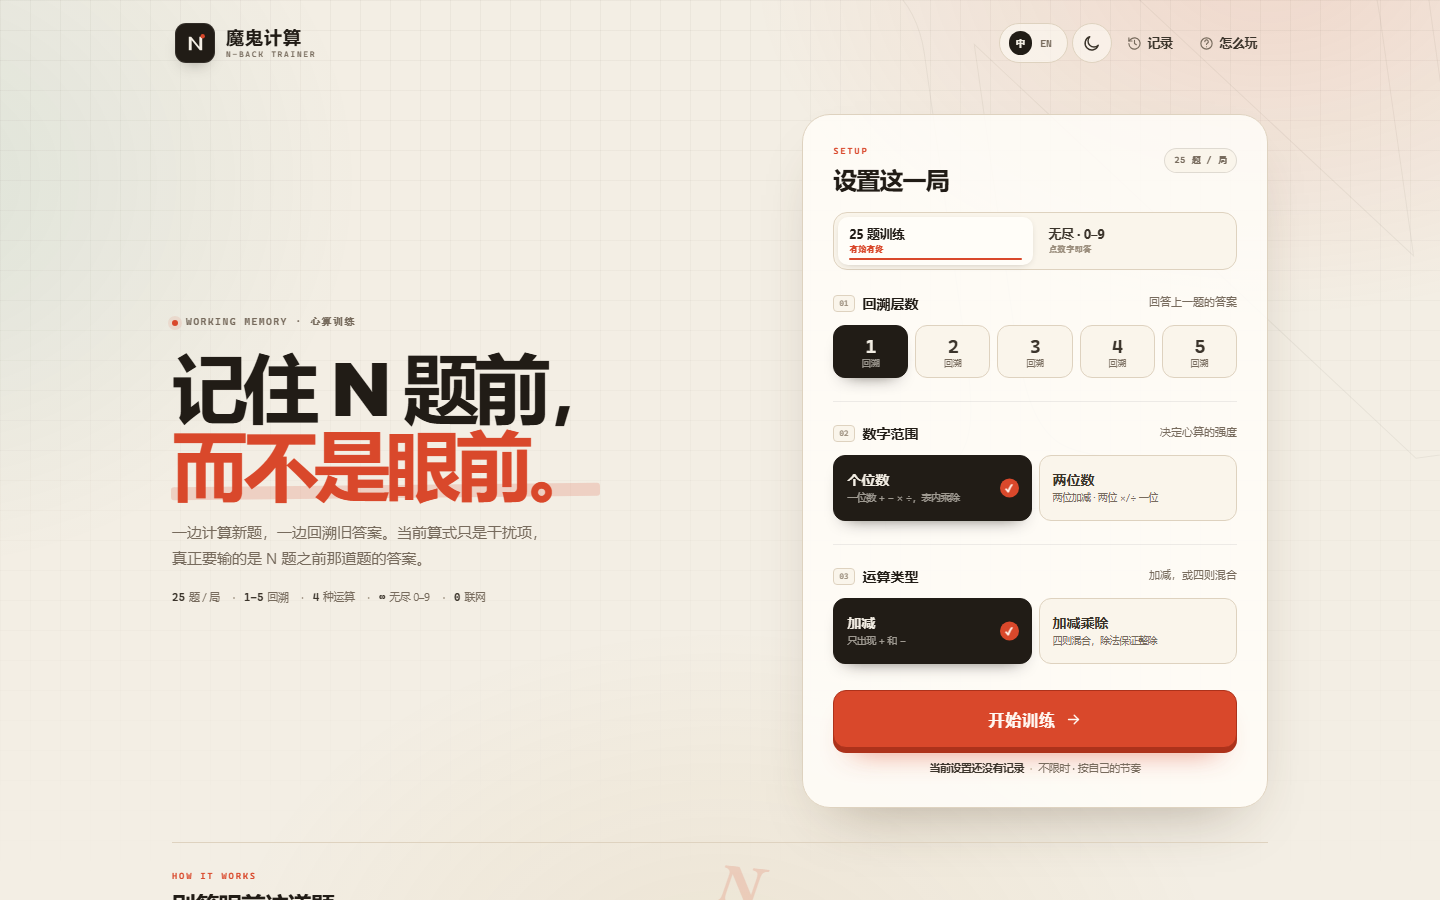
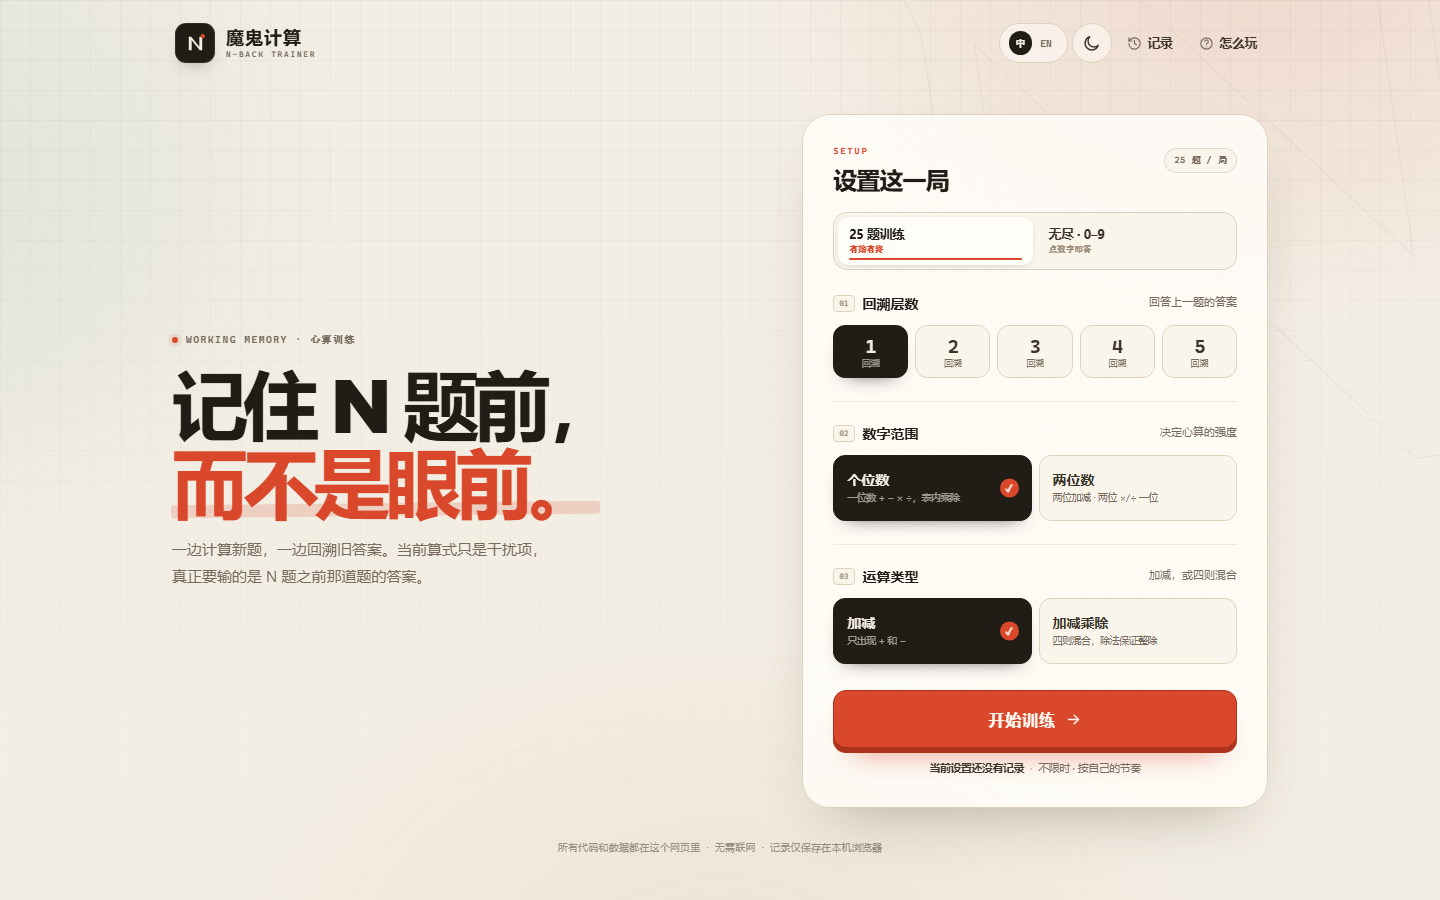
Remove hero tags and how-it-works section
Keep the hero, setup panel, help dialog, and footer; remove the crossed-out tag row and the entire guide block. Refresh home previews and drop obsolete guide images.

diff --git a/魔鬼计算.html b/魔鬼计算.html
@@ -4037,13 +4037,6 @@ html[data-theme] .guide-panel .example {
           <p class="eyebrow"><span class="eyebrow-dot"></span><span data-i18n="hero_eyebrow">WORKING MEMORY · 心算训练</span></p>
           <h1 id="home-title" data-i18n-html="hero_title_html">记住 N 题前，<br><em>而不是眼前。</em></h1>
           <p class="lede" data-i18n-html="hero_lede_html">一边计算新题，一边回溯旧答案。当前算式只是干扰项，<br class="desktop-break">真正要输的是 N 题之前那道题的答案。</p>
-          <div class="hero-tags">
-            <span data-i18n-html="tag_round_html"><b>25</b> 题 / 局</span>
-            <span data-i18n-html="tag_back_html"><b>1–5</b> 回溯</span>
-            <span data-i18n-html="tag_ops_html"><b>4</b> 种运算</span>
-            <span data-i18n-html="tag_endless_html"><b>∞</b> 无尽 0–9</span>
-            <span data-i18n-html="tag_offline_html"><b>0</b> 联网</span>
-          </div>
         </div>
 
         <section class="panel setup-panel" aria-labelledby="setup-title">
@@ -4140,53 +4133,6 @@ html[data-theme] .guide-panel .example {
           </div>
         </section>
       </div>
-
-      <aside class="panel guide-panel" aria-labelledby="guide-title">
-        <div class="guide-grid">
-          <div class="guide-copy">
-            <div class="panel-head">
-              <div>
-                <p class="kicker">HOW IT WORKS</p>
-                <h2 id="guide-title" data-i18n="guide_title">别答眼前这道题</h2>
-              </div>
-              <span class="guide-mark" aria-hidden="true">N</span>
-            </div>
-            <ol class="steps">
-              <li>
-                <span class="step-num" aria-hidden="true">01</span>
-                <div>
-                  <b data-i18n="guide_step1_title">先算，再记</b>
-                  <p data-i18n="guide_step1_text">每题出现时，先算出答案，把它放进脑子里的记忆队列。</p>
-                </div>
-              </li>
-              <li>
-                <span class="step-num" aria-hidden="true">02</span>
-                <div>
-                  <b data-i18n="guide_step2_title">回头看 N 题</b>
-                  <p data-i18n="guide_step2_text">从第 N+1 题起，输入的是 N 题前那道题的答案。当前题只是新的记忆材料。</p>
-                </div>
-              </li>
-              <li>
-                <span class="step-num" aria-hidden="true">03</span>
-                <div>
-                  <b data-i18n="guide_step3_title">连续训练</b>
-                  <p data-i18n="guide_step3_text">普通局 25 题；无尽关一直答到你想停。答错不中断，会显示旧题的正确答案。</p>
-                </div>
-              </li>
-            </ol>
-            <p class="fineprint" data-i18n="guide_fineprint">减法不会出现负数，除法保证整除。两位数模式下，加减为两位 ± 两位，乘除为两位 ×/÷ 一位。无尽关所有答案固定为 0–9。</p>
-            <button id="guide-help-btn" class="inline-link" type="button"><span data-i18n="guide_more">查看完整玩法</span> <span aria-hidden="true">→</span></button>
-          </div>
-
-          <div class="example" aria-label="2-回溯示例" data-i18n-aria="example_aria">
-            <div class="example-head"><span data-i18n="example_back">2-回溯示例</span><span data-i18n="example_now">当前是第 3 题</span></div>
-            <div class="example-row"><span class="ex-q">3 + 4</span><span class="ex-tag" data-i18n="example_q1">第 1 题 · 记住 7</span></div>
-            <div class="example-row"><span class="ex-q">9 − 5</span><span class="ex-tag" data-i18n="example_q2">第 2 题 · 记住 4</span></div>
-            <div class="example-row ex-now"><span class="ex-q">6 × 3</span><span class="ex-tag" data-i18n="example_q3">第 3 题 · 别答 18</span></div>
-            <div class="example-answer"><span data-i18n="example_answer_label">你要回答</span><strong>7</strong><span data-i18n="example_answer_note">第 1 题的答案</span></div>
-          </div>
-        </div>
-      </aside>
 
       <footer class="site-foot">
         <span data-i18n="footer_code">所有代码和数据都在这个网页里</span>
@@ -6908,7 +6854,6 @@ html[data-theme] .guide-panel .example {
     $('history-btn').addEventListener('click', openHistory);
     $('result-history-btn').addEventListener('click', openHistory);
     $('help-btn').addEventListener('click', openHelp);
-    $('guide-help-btn').addEventListener('click', openHelp);
 
     $('brand-link').addEventListener('click', (event) => {
       event.preventDefault();

diff --git a/dev/index.html b/dev/index.html
@@ -81,13 +81,6 @@
           <p class="eyebrow"><span class="eyebrow-dot"></span><span data-i18n="hero_eyebrow">WORKING MEMORY · 心算训练</span></p>
           <h1 id="home-title" data-i18n-html="hero_title_html">记住 N 题前，<br><em>而不是眼前。</em></h1>
           <p class="lede" data-i18n-html="hero_lede_html">一边计算新题，一边回溯旧答案。当前算式只是干扰项，<br class="desktop-break">真正要输的是 N 题之前那道题的答案。</p>
-          <div class="hero-tags">
-            <span data-i18n-html="tag_round_html"><b>25</b> 题 / 局</span>
-            <span data-i18n-html="tag_back_html"><b>1–5</b> 回溯</span>
-            <span data-i18n-html="tag_ops_html"><b>4</b> 种运算</span>
-            <span data-i18n-html="tag_endless_html"><b>∞</b> 无尽 0–9</span>
-            <span data-i18n-html="tag_offline_html"><b>0</b> 联网</span>
-          </div>
         </div>
 
         <section class="panel setup-panel" aria-labelledby="setup-title">
@@ -184,53 +177,6 @@
           </div>
         </section>
       </div>
-
-      <aside class="panel guide-panel" aria-labelledby="guide-title">
-        <div class="guide-grid">
-          <div class="guide-copy">
-            <div class="panel-head">
-              <div>
-                <p class="kicker">HOW IT WORKS</p>
-                <h2 id="guide-title" data-i18n="guide_title">别答眼前这道题</h2>
-              </div>
-              <span class="guide-mark" aria-hidden="true">N</span>
-            </div>
-            <ol class="steps">
-              <li>
-                <span class="step-num" aria-hidden="true">01</span>
-                <div>
-                  <b data-i18n="guide_step1_title">先算，再记</b>
-                  <p data-i18n="guide_step1_text">每题出现时，先算出答案，把它放进脑子里的记忆队列。</p>
-                </div>
-              </li>
-              <li>
-                <span class="step-num" aria-hidden="true">02</span>
-                <div>
-                  <b data-i18n="guide_step2_title">回头看 N 题</b>
-                  <p data-i18n="guide_step2_text">从第 N+1 题起，输入的是 N 题前那道题的答案。当前题只是新的记忆材料。</p>
-                </div>
-              </li>
-              <li>
-                <span class="step-num" aria-hidden="true">03</span>
-                <div>
-                  <b data-i18n="guide_step3_title">连续训练</b>
-                  <p data-i18n="guide_step3_text">普通局 25 题；无尽关一直答到你想停。答错不中断，会显示旧题的正确答案。</p>
-                </div>
-              </li>
-            </ol>
-            <p class="fineprint" data-i18n="guide_fineprint">减法不会出现负数，除法保证整除。两位数模式下，加减为两位 ± 两位，乘除为两位 ×/÷ 一位。无尽关所有答案固定为 0–9。</p>
-            <button id="guide-help-btn" class="inline-link" type="button"><span data-i18n="guide_more">查看完整玩法</span> <span aria-hidden="true">→</span></button>
-          </div>
-
-          <div class="example" aria-label="2-回溯示例" data-i18n-aria="example_aria">
-            <div class="example-head"><span data-i18n="example_back">2-回溯示例</span><span data-i18n="example_now">当前是第 3 题</span></div>
-            <div class="example-row"><span class="ex-q">3 + 4</span><span class="ex-tag" data-i18n="example_q1">第 1 题 · 记住 7</span></div>
-            <div class="example-row"><span class="ex-q">9 − 5</span><span class="ex-tag" data-i18n="example_q2">第 2 题 · 记住 4</span></div>
-            <div class="example-row ex-now"><span class="ex-q">6 × 3</span><span class="ex-tag" data-i18n="example_q3">第 3 题 · 别答 18</span></div>
-            <div class="example-answer"><span data-i18n="example_answer_label">你要回答</span><strong>7</strong><span data-i18n="example_answer_note">第 1 题的答案</span></div>
-          </div>
-        </div>
-      </aside>
 
       <footer class="site-foot">
         <span data-i18n="footer_code">所有代码和数据都在这个网页里</span>

diff --git a/dev/app.js b/dev/app.js
@@ -1957,7 +1957,6 @@
     $('history-btn').addEventListener('click', openHistory);
     $('result-history-btn').addEventListener('click', openHistory);
     $('help-btn').addEventListener('click', openHelp);
-    $('guide-help-btn').addEventListener('click', openHelp);
 
     $('brand-link').addEventListener('click', (event) => {
       event.preventDefault();
